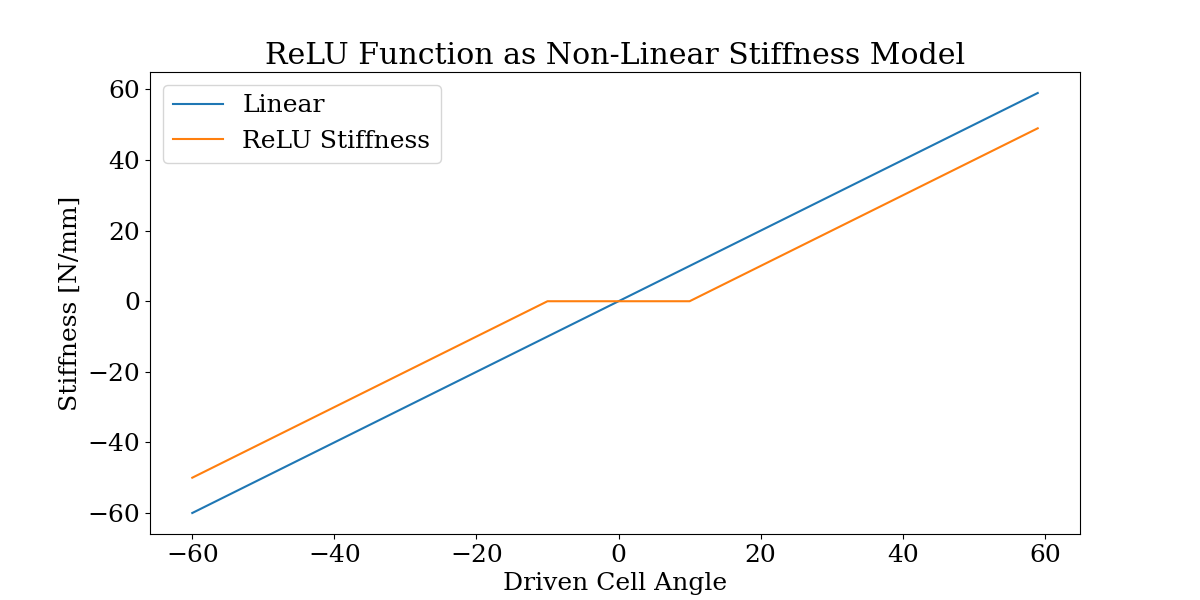
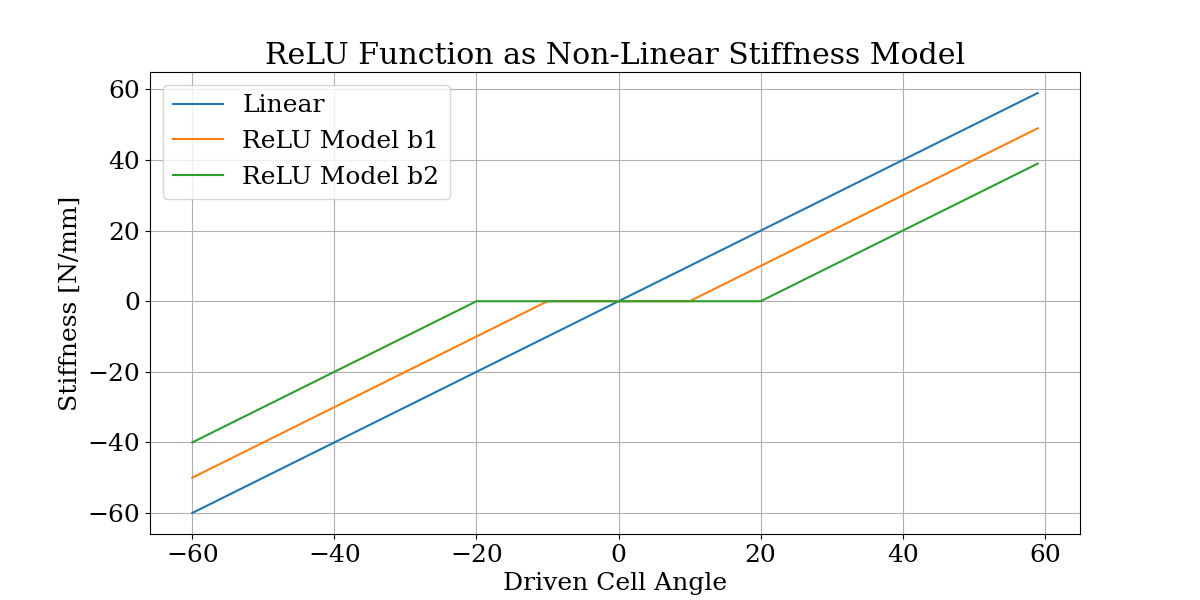
DOF model 1D plots

diff --git a/main_1D_dofs.py b/main_1D_dofs.py
@@ -1,11 +1,16 @@
 # Jacob Miske
 # MIT License
+from numpy import genfromtxt
 import numpy as np
 import matplotlib
 import matplotlib.pyplot as plt
 import csv
+from matplotlib.ticker import MaxNLocator
+import ast
+
 # grabs closest number in myList to myNumber
 # min(myList, key=lambda x:abs(x-myNumber))
+
 
 font = {'family': 'serif',
         'size': 18}
@@ -85,7 +90,7 @@ def get_DoF_from_chain(top_angle_list, bottom_angle_list):
     :param bottom_angle_list:
     :return:
     """
-    dof_range = 20  # degrees
+    dof_range = 20  # degrees threshold for DOF
     count_dof = 0
     for count, cell in enumerate(top_angle_list, 0):
         if (top_angle_list[count] - bottom_angle_list[count]) > dof_range:
@@ -127,6 +132,7 @@ def dual_relu(x, b):
     dual_relu = np.maximum(0, x-b) + np.minimum(0, x+b)
     return dual_relu
 
+
 if __name__ == '__main__':
     # set global variables in main function
     main()
@@ -136,9 +142,10 @@ if __name__ == '__main__':
     Ls_2 = [2 for i in range(20)]
     L2_3 = [3 for i in range(20)]
     angle = [10]
-    b = [0.5, 1, 1.5, 2, 2.5, 3]  # degrees
+    b = [0.75, 1, 1.5, 2, 2.5, 3]  # degrees
     fixs_dict = {0: 30, 19: 30}
 
+    # change to rerun 1D analysis, don't use when plotting
     DOF_analysis = True
 
     if DOF_analysis:
@@ -148,7 +155,7 @@ if __name__ == '__main__':
         # Generate angle amplitude to DoF plot
         dof_count = get_DoF_from_chain(top_angle_list=ta, bottom_angle_list=ba)
         print(dof_count)
-        angle_settings = list(np.linspace(5, 55, 50))
+        angle_settings = list(np.linspace(5, 55, 51))
 
         dof_result = [[], [], [], [], [], []]
         DO_number_at_b = []
@@ -184,46 +191,86 @@ if __name__ == '__main__':
         dDO_dx = [i[:, 2] for i in DO_number_array_ddx]
         print(dDO_dx)
         # zip data in form of many lists to rows
-        rows = zip(angle_settings, dof_result, angle_list, backlash_list, DO_list)
+
+        rows = []
+        # rows.append(angle_settings)
+        # rows.append(dof_result)
+        # rows.append(angle_list)
+        # rows.append(backlash_list)
+        # rows.append(DO_list)
+        # collect all modeling data into one
+        count = 0
+        for DOF_list in dof_result:
+            rows.append([angle_settings, DOF_list,
+                        angle_list[51*(count):51*(count+1)],
+                        backlash_list[51*(count):51*(count+1)],
+                        DO_list[51*(count):51*(count+1)]])
+            count += 1
+
         data_path = "./data_from_1D_DOF.csv"
         with open(data_path, "w") as f:
             writer = csv.writer(f)
             for row in rows:
                 writer.writerow(row)
 
+    # Use data from data_from_1D_DOF.csv, not directly calculated variables
+    data = []
+    with open('data_from_1D_DOF.csv', 'r') as csvfile:
+        reader = csv.reader(csvfile, delimiter=',')
+        for row in reader:
+            data.append(row)
+            print('\n')
+    print(type(data[0][0]))
+
+    dof_result_0p75deg = data[0][1]
+    dof_result_0p75deg = [float(i) for i in dof_result_0p75deg.strip('][').split(', ')]
+
+    dof_result_1deg = data[1][1]
+    dof_result_1deg = [float(i) for i in dof_result_1deg.strip('][').split(', ')]
+
+    dof_result_2deg = data[3][1]
+    dof_result_2deg = [float(i) for i in dof_result_2deg.strip('][').split(', ')]
+
+    dof_result_3deg = data[5][1]
+    dof_result_3deg = [float(i) for i in dof_result_3deg.strip('][').split(', ')]
+
+    angle_settings = list(np.linspace(5, 55, 51))
+
     # DOF result figures
     fig = plt.figure(4, figsize=(10, 10))
     ax = fig.add_subplot()
-    plt.stem(angle_settings, dof_result[1], 'r', label="dθ = 1 deg")
-    plt.stem(angle_settings, dof_result[3], 'b', label="dθ = 2 deg")
-    plt.stem(angle_settings, dof_result[5], 'g', label="dθ = 3 deg")
+    plt.stem(angle_settings, dof_result_0p75deg, 'o', label="dθ = 0.75 deg")
+    plt.stem(angle_settings, dof_result_1deg, 'r', label="dθ = 1 deg")
+    plt.stem(angle_settings, dof_result_2deg, 'b', label="dθ = 2 deg")
+    plt.stem(angle_settings, dof_result_3deg, 'g', label="dθ = 3 deg")
     plt.title("# of DOF of Revolute Joints in Series")
-    plt.xlabel("Fixed Angle of 1st Cell in Chain ")
+    plt.xlabel("Fixed Angle of Cell i=0 in 1D Chain ")
     plt.ylabel("# of DoF")
-    plt.xlim((0, 60))
+    ax.yaxis.set_major_locator(MaxNLocator(integer=True)) # Force matplotlib to only use integers on axis markings
+    plt.xlim([5, 30])
     plt.ylim((0, 20))
     ax.xaxis.labelpad = 6
     ax.yaxis.labelpad = 6
     plt.legend()
-    plt.xlim([0, 30])
     ax.tick_params(axis='both', which='major', pad=10)
     plt.grid()
     plt.savefig("dof_to_angle_relation 1 Ls.png")
 
-    fig = plt.figure(figsize=(8, 8))
-    ax = fig.add_subplot()
-    sc = ax.scatter(angle_list, backlash_list, c=DO_list)
-    # z_for_plot = np.array([[i*i + j*j for j in backlash_list for i in angle_list]])
-    ax.set_title("Max DO Distance - Varying Backlash and Driven Angle")
-    ax.set_xlabel('Driven cell angle')
-    ax.set_ylabel('dθ [degrees]')
-    ax.xaxis.labelpad = 6
-    ax.yaxis.labelpad = 6
-    ax.tick_params(axis='both', which='major', pad=10)
-    # plt.colorbar(sc, label="DO Distance")
-    plt.savefig("./figures/DO_mapping_to_b_and_angle.png")
-    plt.show()
-    plt.close()
+    # fig = plt.figure(figsize=(8, 8))
+    # ax = fig.add_subplot()
+    # # for pcolormesh --> , shading='flat', vmin=DO_list.min(), vmax=DO_list.max()
+    # sc = ax.pcolormesh(angle_list, backlash_list, DO_list)
+    # # z_for_plot = np.array([[i*i + j*j for j in backlash_list for i in angle_list]])
+    # ax.set_title("Max DO Distance - Varying Backlash and Driven Angle")
+    # ax.set_xlabel('Driven cell angle')
+    # ax.set_ylabel('dθ [degrees]')
+    # ax.xaxis.labelpad = 6
+    # ax.yaxis.labelpad = 6
+    # ax.tick_params(axis='both', which='major', pad=10)
+    # # plt.colorbar(sc, label="DO Distance")
+    # plt.savefig("./figures/DO_mapping_to_b_and_angle.png")
+    # plt.show()
+    # plt.close()
 
     fig = plt.figure(figsize=(8, 8))
     ax = fig.add_subplot()
@@ -236,28 +283,30 @@ if __name__ == '__main__':
     ax.tick_params(axis='both', which='major', pad=10)
     plt.colorbar(sc, label="dDO/dx")
     plt.savefig("./figures/DO_mapping_to_b_and_angle_ddx.png")
-    plt.show()
     plt.close()
 
     # ReLU plot
-    b = 10
+    b1 = 10
+    b2 = 20
     X = np.arange(-60, 60, 1)
     Y1 = dual_relu(X, 0)
-    Y2 = dual_relu(X, b)
+    Y2 = dual_relu(X, b1)
+    Y3 = dual_relu(X, b2)
     fig = plt.figure(figsize=(12, 6))
     ax = fig.add_subplot()
     sc = ax.plot(X, Y1, label="Linear")
-    sc = ax.plot(X, Y2, label="ReLU Stiffness")
+    sc = ax.plot(X, Y2, label="ReLU Model b1")
+    sc = ax.plot(X, Y3, label="ReLU Model b2")
+    plt.grid()
     ax.set_title("ReLU Function as Non-Linear Stiffness Model")
     ax.set_xlabel('Driven Cell Angle')
     ax.set_ylabel('Stiffness [N/mm]')
     plt.legend()
     plt.savefig("./figures/ReLU_demo_figure.png")
-    plt.show()
     plt.close()
 
 
-    # hardcoded example
+    # example
     # fig = plt.figure(5, figsize=(10, 10))
     # ax = fig.add_subplot()
     # y1 = np.polyfit(angle_settings, [(9-i)/9 for i in dof_result[0]], 3)
